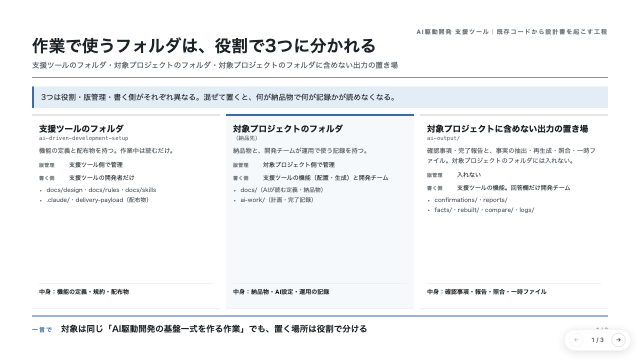
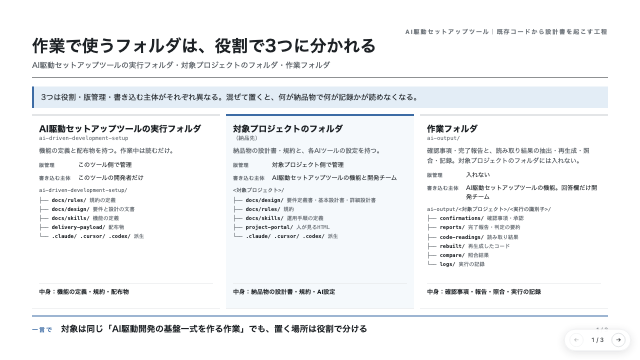
【修正】作業フォルダのスライドの呼び名を揃え内訳をツリー表記にする
利用者の指摘に沿って、3つのフォルダの呼び名と内訳の見せ方を直した。

- 「対象プロジェクトに含めない出力の置き場」を「作業フォルダ」に改めた
- 「支援ツールのフォルダ」を「AI駆動セットアップツールの実行フォルダ」に改め、
  kicker と title を含む本文の呼び名を1つに揃えた
- 項目名「書く側」を「書き込む主体」に改めた
- 1枚目の3カードの内訳を、横並びの箇条書きから等幅のツリー表記に差し替えた
- 3枚目に残っていた横並び列挙を「残りの5フォルダ」に改め、内訳をツリーへ寄せた
- 2枚目から ai-work/ の行を外し、見出しを「直下に足すのは4種」から「3種」に改めた

判定役の指摘により、正本（作業ディレクトリと出力の配置.md）とのずれ3件も直した。
facts/ を code-readings/ に、「要件定義5文書」を「要件定義書（1文書）」に、
「アーキテクチャ調査書」を「調査と検出条件の定義書」に揃えた。

ページ2・3の 1280x720 実描画を証跡に加え、Phase 9 に残っていた
実描画未確認の保留を解消した。

diff --git a/slides/作業ディレクトリ配置-3種比較/解説スライド.html b/slides/作業ディレクトリ配置-3種比較/解説スライド.html
@@ -3,7 +3,7 @@
 <head>
 <meta charset="utf-8">
 <meta name="viewport" content="width=device-width, initial-scale=1">
-<title>AI駆動開発 支援ツール — 既存コードから設計書を起こす工程：作業フォルダの 3 区分</title>
+<title>AI駆動セットアップツール — 既存コードから設計書を起こす工程：作業フォルダの 3 区分</title>
 <style>
   :root{ --accent-soft:#E3EDF6; --focus-bg:#F5F9FC; }
   .mono{ font-family: "SF Mono", "Cascadia Code", Consolas, Menlo, monospace; }
@@ -16,11 +16,12 @@
   .dir-nm{ margin:0; font-size:17px; font-weight:700; line-height:1.3; color:var(--ink); }
   .dir-nm .path{ display:block; margin-top:2px; font-size:11px; font-weight:400; font-family:"SF Mono",Consolas,Menlo,monospace; color:var(--label); }
   .kv{ display:flex; gap:8px; align-items:baseline; }
-  .kv-key{ flex:none; width:52px; color:var(--label); font:700 10px/1.5 system-ui,sans-serif; letter-spacing:.06em; }
+  .kv-key{ flex:none; width:70px; color:var(--label); font:700 10px/1.5 system-ui,sans-serif; letter-spacing:.06em; }
   .kv-val{ margin:0; font-size:12px; line-height:1.5; color:var(--ink); }
   .dir-role{ margin:0; font-size:12.5px; line-height:1.55; color:var(--muted); }
-  .dir .items{ margin:0; padding-left:15px; color:var(--muted); font-size:11.5px; line-height:1.55; }
-  .dir .items li+li{ margin-top:2px; }
+  .dir .tree{ margin:0; font-size:10.5px; line-height:1.75; color:var(--muted); white-space:pre; overflow:hidden; }
+  .dir .tree .hot{ color:var(--ink); font-weight:700; }
+  .dir .tree .dim{ color:var(--label); }
   .dir-gate{ margin-top:auto; padding-top:8px; border-top:1px solid var(--faint); color:var(--ink); font:700 12px/1.4 system-ui,sans-serif; }
 
   /* P2/P3共通: 左説明 + 右ツリー */
@@ -64,44 +65,51 @@
 
   <section class="slide-page is-active" data-slide-page="1">
     <header class="slide-header">
-      <span class="kicker">AI駆動開発 支援ツール｜<wbr>既存コードから設計書を起こす工程</span>
+      <span class="kicker">AI駆動セットアップツール｜<wbr>既存コードから設計書を起こす工程</span>
       <h1 class="slide-title">作業で<wbr>使うフォルダは、<wbr>役割で<wbr>3つに分かれる</h1>
-      <p class="slide-subtitle">支援ツールの<wbr>フォルダ・<wbr>対象プロジェクトの<wbr>フォルダ・<wbr>対象プロジェクトの<wbr>フォルダに<wbr>含めない出力の<wbr>置き場</p>
+      <p class="slide-subtitle">AI駆動セットアップツールの<wbr>実行フォルダ・<wbr>対象プロジェクトの<wbr>フォルダ・<wbr>作業フォルダ</p>
     </header>
-    <p class="thesis">3つは役割・版管理・書く側がそれぞれ異なる。混ぜて置くと、何が納品物で何が記録かが読めなくなる。</p>
+    <p class="thesis">3つは役割・版管理・書き込む主体がそれぞれ異なる。混ぜて置くと、何が納品物で何が記録かが読めなくなる。</p>
     <div class="dirs">
       <article class="dir">
-        <p class="dir-nm">支援ツールの<wbr>フォルダ<span class="path">ai-driven-development-setup</span></p>
+        <p class="dir-nm">AI駆動セットアップツールの<wbr>実行フォルダ<span class="path">ai-driven-development-setup</span></p>
         <p class="dir-role">機能の定義と配布物を持つ。作業中は読むだけ。</p>
-        <div class="kv"><span class="kv-key">版管理</span><p class="kv-val">支援ツール側で<wbr>管理</p></div>
-        <div class="kv"><span class="kv-key">書く側</span><p class="kv-val">支援ツールの<wbr>開発者だけ</p></div>
-        <ul class="items">
-          <li>docs/design・docs/rules・docs/skills</li>
-          <li>.claude/・delivery-payload（配布物）</li>
-        </ul>
+        <div class="kv"><span class="kv-key">版管理</span><p class="kv-val">このツール側で<wbr>管理</p></div>
+        <div class="kv"><span class="kv-key">書き込む主体</span><p class="kv-val">このツールの<wbr>開発者だけ</p></div>
+        <pre class="tree mono">ai-driven-development-setup/
+├── <span class="hot">docs/rules/</span> <span class="dim">規約の定義</span>
+├── <span class="hot">docs/design/</span> <span class="dim">要件と設計の文書</span>
+├── <span class="hot">docs/skills/</span> <span class="dim">機能の定義</span>
+├── <span class="hot">delivery-payload/</span> <span class="dim">配布物</span>
+└── <span class="hot">.claude/ .cursor/ .codex/</span> <span class="dim">派生</span></pre>
         <p class="dir-gate">中身：<wbr>機能の<wbr>定義・<wbr>規約・<wbr>配布物</p>
       </article>
       <article class="dir focus">
         <p class="dir-nm">対象プロジェクトの<wbr>フォルダ<span class="path">（納品先）</span></p>
-        <p class="dir-role">納品物と、開発チームが運用で使う記録を持つ。</p>
+        <p class="dir-role">納品物の設計書・規約と、各AIツールの設定を持つ。</p>
         <div class="kv"><span class="kv-key">版管理</span><p class="kv-val">対象プロジェクト側で<wbr>管理</p></div>
-        <div class="kv"><span class="kv-key">書く側</span><p class="kv-val">支援ツールの<wbr>機能（配置・生成）と<wbr>開発チーム</p></div>
-        <ul class="items">
-          <li>docs/（AIが読む定義・納品物）</li>
-          <li>ai-work/（計画・完了記録）</li>
-        </ul>
-        <p class="dir-gate">中身：<wbr>納品物・<wbr>AI設定・<wbr>運用の記録</p>
+        <div class="kv"><span class="kv-key">書き込む主体</span><p class="kv-val">AI駆動セットアップツールの<wbr>機能と<wbr>開発チーム</p></div>
+        <pre class="tree mono">&lt;対象プロジェクト&gt;/
+├── <span class="hot">docs/design/</span> <span class="dim">要件定義書・基本設計書・詳細設計書</span>
+├── <span class="hot">docs/rules/</span> <span class="dim">規約</span>
+├── <span class="hot">docs/skills/</span> <span class="dim">運用手順の定義</span>
+├── <span class="hot">project-portal/</span> <span class="dim">人が見るHTML</span>
+└── <span class="hot">.claude/ .cursor/ .codex/</span> <span class="dim">派生</span></pre>
+        <p class="dir-gate">中身：<wbr>納品物の<wbr>設計書・<wbr>規約・<wbr>AI設定</p>
       </article>
       <article class="dir">
-        <p class="dir-nm">対象プロジェクトに<wbr>含めない<wbr>出力の<wbr>置き場<span class="path">ai-output/</span></p>
-        <p class="dir-role">確認事項・完了報告と、事実の抽出・再生成・照合・一時ファイル。対象プロジェクトのフォルダには入れない。</p>
+        <p class="dir-nm">作業フォルダ<span class="path">ai-output/</span></p>
+        <p class="dir-role">確認事項・完了報告と、読み取り結果の抽出・再生成・照合・記録。対象プロジェクトのフォルダには入れない。</p>
         <div class="kv"><span class="kv-key">版管理</span><p class="kv-val">入れない</p></div>
-        <div class="kv"><span class="kv-key">書く側</span><p class="kv-val">支援ツールの<wbr>機能。<wbr>回答欄だけ<wbr>開発チーム</p></div>
-        <ul class="items">
-          <li>confirmations/・reports/</li>
-          <li>facts/・rebuilt/・compare/・logs/</li>
-        </ul>
-        <p class="dir-gate">中身：<wbr>確認事項・<wbr>報告・<wbr>照合・<wbr>一時ファイル</p>
+        <div class="kv"><span class="kv-key">書き込む主体</span><p class="kv-val">AI駆動セットアップツールの<wbr>機能。<wbr>回答欄だけ<wbr>開発チーム</p></div>
+        <pre class="tree mono">ai-output/&lt;対象プロジェクト&gt;/&lt;実行の識別子&gt;/
+├── <span class="hot">confirmations/</span> <span class="dim">確認事項・承認</span>
+├── <span class="hot">reports/</span> <span class="dim">完了報告・判定の要約</span>
+├── <span class="hot">code-readings/</span> <span class="dim">読み取り結果</span>
+├── <span class="hot">rebuilt/</span> <span class="dim">再生成したコード</span>
+├── <span class="hot">compare/</span> <span class="dim">照合結果</span>
+└── <span class="hot">logs/</span> <span class="dim">実行の記録</span></pre>
+        <p class="dir-gate">中身：<wbr>確認事項・<wbr>報告・<wbr>照合・<wbr>実行の記録</p>
       </article>
     </div>
     <div class="conclusion">
@@ -113,19 +121,15 @@
 
   <section class="slide-page" data-slide-page="2">
     <header class="slide-header">
-      <span class="kicker">AI駆動開発 支援ツール｜<wbr>既存コードから設計書を起こす工程</span>
-      <h1 class="slide-title">対象プロジェクトの<wbr>フォルダの中：<wbr>直下に<wbr>足すのは4種</h1>
-      <p class="slide-subtitle">docsには<wbr>AIが<wbr>読む定義だけを<wbr>置く。<wbr>記録と<wbr>確認事項は<wbr>別の場所に出す</p>
+      <span class="kicker">AI駆動セットアップツール｜<wbr>既存コードから設計書を起こす工程</span>
+      <h1 class="slide-title">対象プロジェクトの<wbr>フォルダの中：<wbr>直下に<wbr>足すのは3種</h1>
+      <p class="slide-subtitle">docsには<wbr>AIが<wbr>読む定義だけを<wbr>置く。<wbr>記録と<wbr>確認事項は<wbr>作業フォルダに出す</p>
     </header>
     <div class="docs">
       <div class="guide">
         <div class="g-row">
           <div class="g-what"><span class="nm">docs/</span><span class="badge">AIが<wbr>読む定義（納品物）</span></div>
-          <p class="g-mid">規約・要件定義・共通設計文書・共通処理の詳細設計書・アーキテクチャ調査書・種別ごとの設計書・一覧・運用skill（AIエージェントが実行する定型手順）の定義。記録や確認事項はここに置かない。</p>
-        </div>
-        <div class="g-row">
-          <div class="g-what"><span class="nm">ai-work/</span><span class="badge">運用の記録</span></div>
-          <p class="g-mid"><code>todo/</code>にAIが読む計画と作業指示書、<code>records/</code>に開発フローの完了記録と基本設計の合格記録を置く。</p>
+          <p class="g-mid">規約・要件定義書・調査と検出条件の定義書・共通設計文書・共通処理の詳細設計書・種別ごとの設計書・一覧・運用skill（AIエージェントが実行する定型手順）の定義。記録や確認事項はここに置かない。</p>
         </div>
         <div class="g-row">
           <div class="g-what"><span class="nm">project-portal/</span><span class="badge">任意の納品物</span></div>
@@ -141,8 +145,8 @@
         <p class="tree-title">AIが<wbr>読む定義だけを置く</p>
         <pre class="mono">docs/
 ├── <span class="hot">rules/</span>&lt;親&gt;/&lt;子&gt;/ <span class="dim">規約の定義と検査</span>
-├── <span class="hot">design/requirements/</span> <span class="dim">要件定義5文書</span>
-├── <span class="hot">design/common/</span> <span class="dim">共通設計文書・共通処理の詳細設計書・アーキテクチャ調査書</span>
+├── <span class="hot">design/requirements/</span> <span class="dim">要件定義書（1文書）</span>
+├── <span class="hot">design/common/</span> <span class="dim">調査と検出条件の定義書・共通設計文書6つ</span>
 ├── <span class="hot">design/lists/</span> <span class="dim">種別ごとの一覧・納品物一覧</span>
 ├── <span class="hot">design/</span>&lt;種別&gt;/&lt;単位&gt;/ <span class="dim">基本・単体テスト・詳細設計書</span>
 │   <span class="dim">種別：画面・API・テーブル・バッチ・帳票・外部連携・機能</span>
@@ -151,16 +155,16 @@
     </div>
     <div class="conclusion">
       <span class="c-label">一言で</span>
-      <span class="c-text">docsは<wbr>定義専用。<wbr>完了記録は<wbr>ai-work/、<wbr>確認事項は<wbr>対象プロジェクトの<wbr>外（ai-output/）に出す</span>
+      <span class="c-text">docsは<wbr>定義専用。<wbr>確認事項も<wbr>報告も<wbr>記録も<wbr>作業フォルダ（ai-output/）に出す</span>
       <span class="pageno">2 / 3</span>
     </div>
   </section>
 
   <section class="slide-page" data-slide-page="3">
     <header class="slide-header">
-      <span class="kicker">AI駆動開発 支援ツール｜<wbr>既存コードから設計書を起こす工程</span>
-      <h1 class="slide-title">確認・<wbr>記録・<wbr>一時ファイルは、<wbr>対象プロジェクトのフォルダに<wbr>入れない</h1>
-      <p class="slide-subtitle">確認事項は<wbr>開発チームが<wbr>回答し、<wbr>支援ツールの<wbr>機能が<wbr>対象プロジェクトの<wbr>設計書へ<wbr>書き戻す</p>
+      <span class="kicker">AI駆動セットアップツール｜<wbr>既存コードから設計書を起こす工程</span>
+      <h1 class="slide-title">確認事項・<wbr>報告・<wbr>記録は、<wbr>対象プロジェクトの<wbr>フォルダに入れない</h1>
+      <p class="slide-subtitle">確認事項は<wbr>開発チームが<wbr>回答し、<wbr>AI駆動セットアップツールの<wbr>機能が<wbr>設計書へ<wbr>書き戻す</p>
     </header>
     <div class="docs">
       <div class="guide">
@@ -173,17 +177,17 @@
           <p class="g-mid">確認事項一覧・対象範囲の承認の記録。開発チームが回答欄を書く。</p>
         </div>
         <div class="g-row">
-          <div class="g-what"><span class="nm">reports/ / facts/ / rebuilt/ / compare/ / logs/</span><span class="badge">支援ツールの機能</span></div>
-          <p class="g-mid">完了報告・納品物一覧の写し、検証の判定の要約、原本コードから取り出した事実、設計書だけから再生成したコード、原本と再生成の照合結果、実行の記録。</p>
+          <div class="g-what"><span class="nm">残りの<wbr>5フォルダ</span><span class="badge">ツールが<wbr>自動生成</span></div>
+          <p class="g-mid">完了報告・納品物一覧の写しと検証の判定の要約、原本コードから取り出した読み取り結果、設計書だけから再生成したコード、原本と再生成の照合結果、実行の記録。内訳は右のツリーで1フォルダ1行に並べている。</p>
         </div>
       </div>
       <aside class="treebox">
-        <span class="tree-label">ai-output の中</span>
+        <span class="tree-label">作業フォルダ（ai-output）の中</span>
         <p class="tree-title">確認事項・<wbr>報告・<wbr>照合の<wbr>置き場</p>
         <pre class="mono">ai-output/&lt;対象プロジェクト&gt;/&lt;実行の識別子&gt;/
 ├── <span class="hot">confirmations/</span> <span class="dim">確認事項一覧・対象範囲の承認</span>
 ├── <span class="hot">reports/</span> <span class="dim">完了報告・納品物一覧の写し・検証の判定の要約</span>
-├── <span class="hot">facts/</span> <span class="dim">原本コードから取り出した事実</span>
+├── <span class="hot">code-readings/</span> <span class="dim">原本コードから取り出した読み取り結果</span>
 ├── <span class="hot">rebuilt/</span> <span class="dim">設計書だけから再生成したコード</span>
 ├── <span class="hot">compare/</span> <span class="dim">原本と再生成の照合結果</span>
 └── <span class="hot">logs/</span> <span class="dim">実行の記録</span></pre>
@@ -192,11 +196,11 @@
     <div class="flow-wrap">
       <p class="flow-label">確認事項が<wbr>行って<wbr>戻る流れ</p>
       <div class="flow-boxes">
-        <div class="flow-box"><span class="fb-nm">支援ツールの機能</span><span class="fb-sub">確認事項一覧.mdを書く</span></div>
+        <div class="flow-box"><span class="fb-nm">AI駆動セットアップツールの<wbr>機能</span><span class="fb-sub">確認事項一覧.mdを書く</span></div>
         <div class="flow-box"><span class="fb-nm">confirmations/<wbr>確認事項一覧.md</span><span class="fb-sub">開発チームが<wbr>回答欄を書く</span></div>
-        <div class="flow-box"><span class="fb-nm">対象プロジェクトの<wbr>設計書</span><span class="fb-sub">支援ツールの<wbr>機能が<wbr>回答を<wbr>書き戻す</span></div>
+        <div class="flow-box"><span class="fb-nm">対象プロジェクトの<wbr>設計書</span><span class="fb-sub">AI駆動セットアップツールの<wbr>機能が<wbr>回答を<wbr>書き戻す</span></div>
       </div>
-      <svg class="flow-svg" viewBox="0 0 1000 40" preserveAspectRatio="none" role="img" aria-label="確認事項が支援ツールの機能から開発チームへ渡り、回答が設計書へ戻る流れ">
+      <svg class="flow-svg" viewBox="0 0 1000 40" preserveAspectRatio="none" role="img" aria-label="確認事項がAI駆動セットアップツールの機能から開発チームへ渡り、回答が設計書へ戻る流れ">
         <path class="flow-arrow" d="M 166 14 L 500 14" marker-end="url(#fw-fwd-1)"></path>
         <text class="flow-arrow-label" x="333" y="10">渡す</text>
         <path class="flow-arrow" d="M 500 14 L 833 14" marker-end="url(#fw-fwd-2)"></path>

diff --git a/index.html b/index.html
@@ -1648,7 +1648,7 @@ const SLIDES = [
     "template": "",
     "date": "2026-09-03",
     "updated": "2026-09-06",
-    "updatedAt": "2026-09-06T18:11:39+09:00"
+    "updatedAt": "2026-09-06T21:31:00+09:00"
   },
   {
     "key": "AI駆動開発コンサル-業務要件",
@@ -1730,11 +1730,11 @@ const SLIDES = [
     "template": "",
     "date": "2026-09-03",
     "updated": "2026-09-06",
-    "updatedAt": "2026-09-06T18:11:39+09:00"
+    "updatedAt": "2026-09-06T21:31:00+09:00"
   },
   {
     "key": "作業ディレクトリ配置-3種比較",
-    "title": "AI駆動開発 支援ツール — 既存コードから設計書を起こす工程：作業フォルダの 3 区分",
+    "title": "AI駆動セットアップツール — 既存コードから設計書を起こす工程：作業フォルダの 3 区分",
     "purpose": "支援ツールのリポジトリ・先方リポジトリ・先方リポジトリに含めない出力の置き場という3つのディレクトリが役割・版管理・書く側で異なり、混ぜて置くと何が納品物で何が記録か読めなくなることを示す。",
     "target": "AI駆動開発基盤一式を作る作業で使う3つのディレクトリ（支援ツールのリポジトリ・先方リポジトリ・先方リポジトリに含めない出力の置き場）の役割分担",
     "problems": "記録・確認事項・納品物の置き場が決まっておらず、何が納品物で何が記録か読めなくなる",
@@ -1756,13 +1756,13 @@ const SLIDES = [
     "template": "",
     "date": "2026-09-03",
     "updated": "2026-09-06",
-    "updatedAt": "2026-09-06T18:11:39+09:00"
+    "updatedAt": "2026-09-06T21:31:00+09:00"
   },
   {
     "key": "リバース工程-基本設計の完了判定",
     "title": "AI駆動開発 支援ツール — 既存コードから設計書を起こす工程：基本設計の完了判定",
-    "purpose": "リバース工程で基本設計書が規約の定める6項目すべてに合格して初めて詳細設計へ進めること、不合格時は名指しされた項目だけ直して再判定することを示す。",
-    "target": "リバース工程で基本設計書が完了判定に合格して詳細設計へ進むための6項目の条件と、不合格時に名指しの項目だけ直して再判定する流れ",
+    "purpose": "リバース工程で基本設計書が規約の定める5項目すべてに合格して初めて詳細設計へ進めること、不合格時は名指しされた項目だけ直して再判定することを示す。",
+    "target": "リバース工程で基本設計書が完了判定に合格して詳細設計へ進むための5項目の条件と、不合格時に名指しの項目だけ直して再判定する流れ",
     "problems": "基本設計が終わったと言える基準が無い・不合格のとき何を直せばよいか分からない",
     "tools": [
       "汎用"
@@ -1781,8 +1781,8 @@ const SLIDES = [
     "has_prompt": false,
     "template": "",
     "date": "2026-09-06",
-    "updated": "2026-09-06",
-    "updatedAt": "2026-09-06T21:31:00+09:00"
+    "updated": "2026-09-07",
+    "updatedAt": "2026-09-07T16:22:43+09:00"
   }
 ];
 const PACKS = [

diff --git a/slides/作業ディレクトリ配置-3種比較/検査記録.md b/slides/作業ディレクトリ配置-3種比較/検査記録.md
@@ -5,3 +5,38 @@
 1. 2026-09-04 ユーザー指摘により用語統一を実施（「先方」→「対象プロジェクト」、「リポジトリ」「ディレクトリ」→「フォルダ」）。CSS のクラス名・セレクタ・フォルダ名・URL は変更対象外
 2. 2026-09-06 件名（title）を共通名称「AI駆動開発 支援ツール — 既存コードから設計書を起こす工程：〜」に統一（ユーザー指示）
 3. 2026-09-06 kicker を共通文言に統一（ユーザー指示）
+4. 2026-09-09 呼び名と内訳の見せ方を改めた（ユーザー指示）
+   - 「対象プロジェクトに含めない出力の置き場」→「作業フォルダ」
+   - 「支援ツールのフォルダ」→「AI駆動セットアップツールの実行フォルダ」
+   - 項目名「書く側」→「書き込む主体」。意味が読み取れないという指摘による
+   - 1枚目の3カードの内訳を、横並びの箇条書きから等幅のツリー表記へ差し替えた。1フォルダ1行で改行する
+   - 対象プロジェクトの `docs/` の説明を「要件定義書・基本設計書・詳細設計書」に改めた
+   - 「中身：」行をツリーの内容に合わせた
+   - `facts/` を正本（`docs/design/common/作業ディレクトリと出力の配置.md`）の `code-readings/` へ揃えた
+5. 2026-09-09 判定役（document-reviewer・adversarial-verifier）の指摘を反映した
+   - 呼び名を1つに統一。kicker と title の「AI駆動開発 支援ツール」を「AI駆動セットアップツール」へ改めた（ユーザー決定。姉妹スライド3枚も別途揃える）
+   - 2枚目から `ai-work/` の行を外し、見出しを「直下に足すのは4種」→「3種」へ改めた（ユーザー決定）
+   - 2枚目 `design/requirements/` の「要件定義5文書」を正本どおり「要件定義書（1文書）」へ改めた。5文書の様式は廃止済み
+   - 2枚目「アーキテクチャ調査書」を正本どおり「調査と検出条件の定義書」へ改めた
+   - 2枚目のツリーが右の罫線を越えていた。上記2件で文言が短くなり収まった
+   - 3枚目に残っていた横並び列挙（`reports/ / code-readings/ / rebuilt/ / compare/ / logs/`）を「残りの5フォルダ」に改め、内訳は右のツリーへ寄せた
+   - 3枚目の見出しの「一時ファイル」が本文から消えていたため「確認事項・報告・記録は、〜」へ改めた
+   - ページ2・ページ3の 1280x720 実描画を `evidence/検証用スクリーンショット-2.png`・`-3.png` として取得し、Phase 9 に残っていた実描画未確認の保留を解消した
+
+## 判定役の所見（2026-09-09）
+
+| 担当 | 結果 | 対応 |
+|---|---|---|
+| document-reviewer | 不合格2件（ai-work の非対称・呼び名の混在） | どちらもユーザーに判断を仰ぎ、決定どおり反映した |
+| adversarial-verifier | 高4件・中4件・低1件 | 正本とのずれ3件・横並び列挙1件・はみ出し1件を反映した。ページ番号と共通シェルのページャの重なり（低）は全スライド共通のため対象外とした |
+
+## タスク限定の観点（次回の再検査項目）
+
+| 観点 | 検査内容 |
+|---|---|
+| 呼び名-正本一致 | フォルダ名・成果物名・文書名が `docs/design/common/作業ディレクトリと出力の配置.md` と一致しているか。2026-09-09 に `facts/`・「要件定義5文書」・「アーキテクチャ調査書」の3件がずれていた実例がある |
+| ツリー-中身行一致 | 1枚目の各カードのツリーに載っている項目と、同じカードの「中身：」行が食い違っていないか |
+| 呼び名-1枚内統一 | 同じ対象に2つの呼び名が1枚の中で混在していないか。kicker・title も対象に含める |
+| ページ間-種別数一致 | 1枚目のカードのツリーの項目数と、2枚目の見出しが言う種別数が一致しているか |
+| 横並び列挙-残存 | `A/ ・ B/` のようにフォルダを横に並べた列挙が残っていないか。3ページすべてを見る |
+| ツリー-横幅収まり | カード内・右側の両方のツリーの最長行が枠に収まっているか。右側の `.treebox pre` は overflow の指定を持たないため、はみ出しがそのまま出る |
